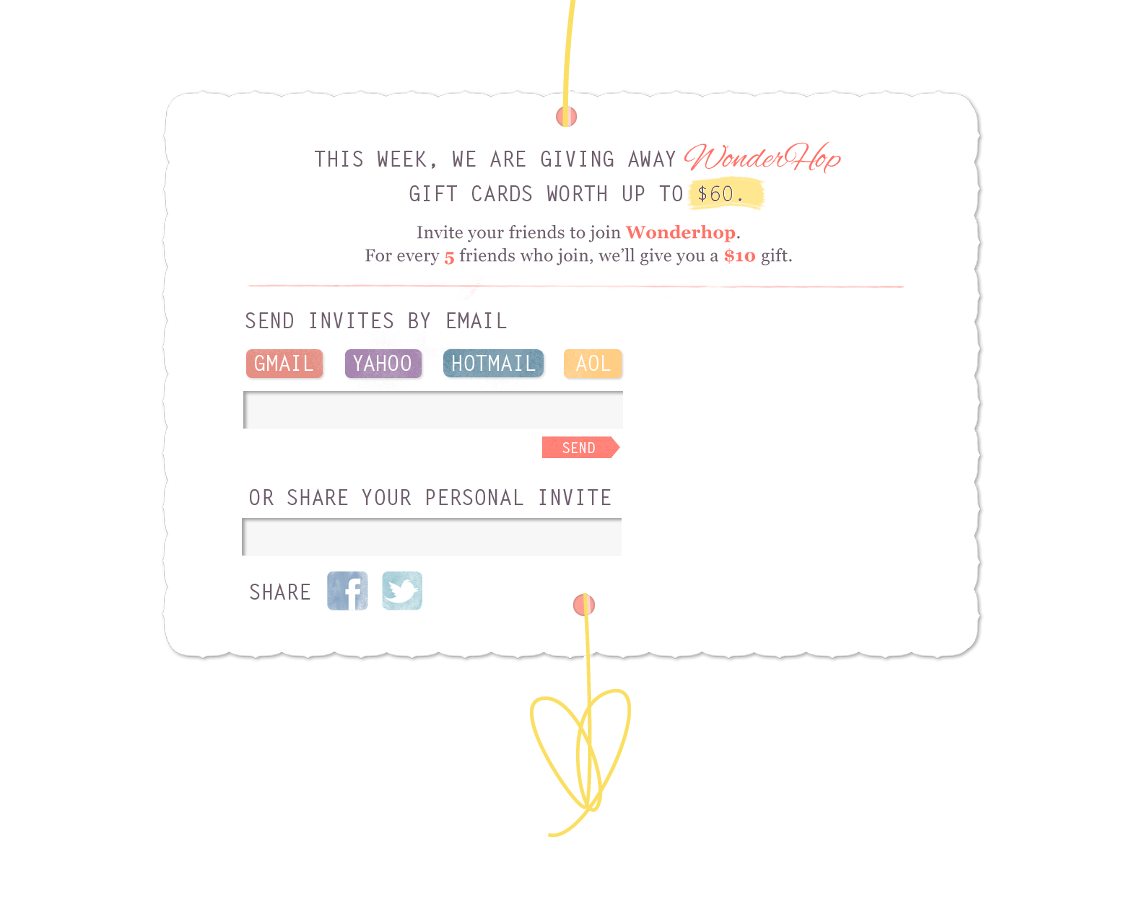
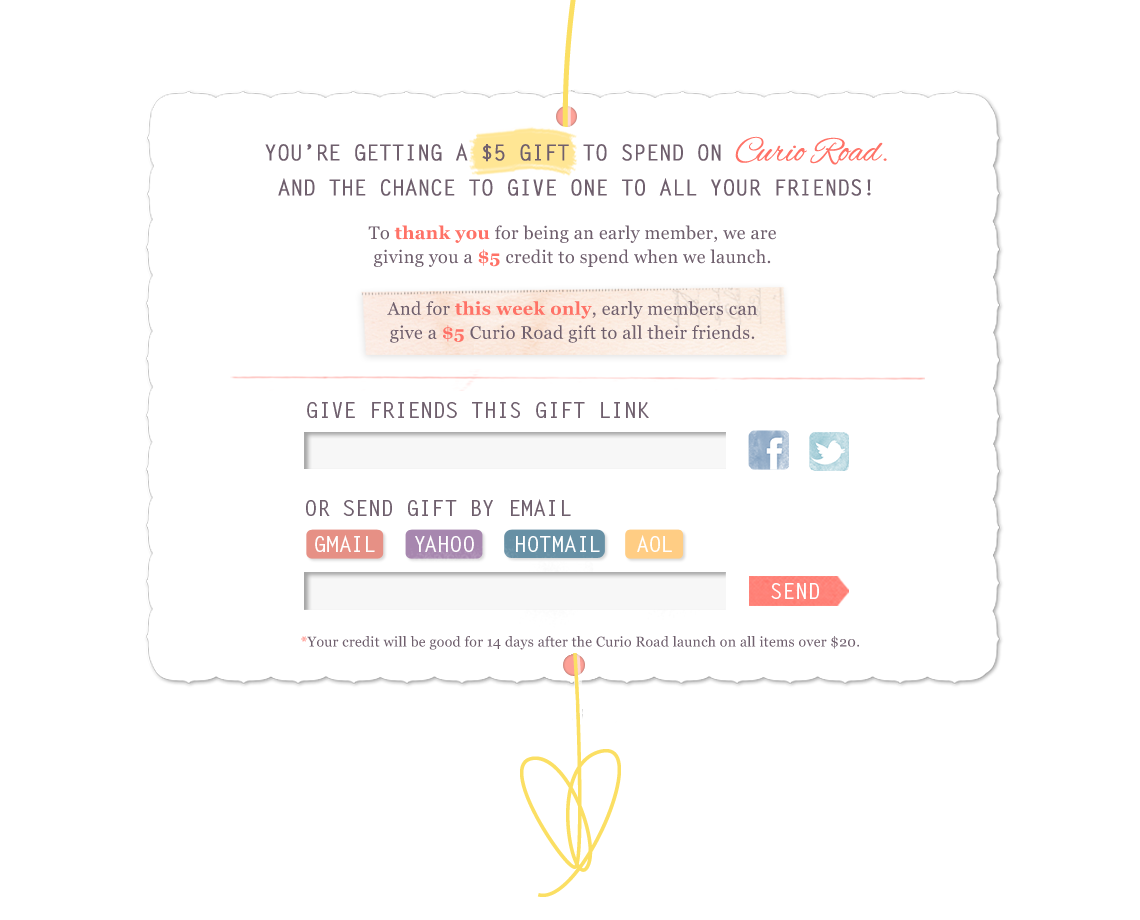
&36521539, #11223 -- new invite page

Changed region(s): [[0.1535, 0.1217, 0.8904, 0.9739]]

diff --git a/public/static/css/style.css b/public/static/css/style.css
@@ -47,11 +47,11 @@ body, html { margin:0; padding:0; background-color:/*#fd8c80*/ white; }
 
 #wrap { width:100%; position: relative; }
 
-#content-box { width: 1140px; height: 10100px; margin:0 auto; position:relative; overflow:hidden; }
+#content-box { width: 1140px; height: 10170px; margin:0 auto; position:relative; overflow:hidden; }
 #content-cards { position:absolute; top:0; left:0; right:0; bottom:0; /*background: url("/static/images/slides_cards-nq8.png") no-repeat scroll left top transparent;*/  }
 #content-text { position:absolute; top:0; left:0; right:0; bottom:0; /*background: url("/static/images/slides_text_wire_corners-nq8.png") no-repeat scroll left top transparent; */ }
 
-#content-back { position:absolute; top:0; left:0; right:0; bottom:0; height: 7210px; /*background: url("/static/images/para_bg.jpg") repeat fixed left top transparent;*/}
+#content-back { position:absolute; top:0; left:0; right:0; bottom:0; height: 10170px; /*background: url("/static/images/para_bg.jpg") repeat fixed left top transparent;*/}
 
 /* 920 / 900 -->  736/716 (0.8) | 598/578 (0.65) */
 /*.backslide { width:100%; height:736px; position:relative; /*display:none;*//* }*/
@@ -133,8 +133,8 @@ body, html { margin:0; padding:0; background-color:/*#fd8c80*/ white; }
 .backslide.backslide-11 .back { height: 920px; }*/
 .backslide.backslide-8 { height:970px; }
 .backslide.backslide-8 .back { height: 950px; }
-.backslide.backslide-11 { height:850px; }
-.backslide.backslide-11 .back { height: 830px; }
+.backslide.backslide-11 { height:920px; }
+.backslide.backslide-11 .back { height: 900px; }
 
 
 .card { width: 1140px; height: 920px; /*border:1px solid red;*/  }
@@ -201,22 +201,22 @@ body, html { margin:0; padding:0; background-color:/*#fd8c80*/ white; }
 .prod-img-9 {  height: 355px; width: 370px; }
 
 
-#invitations-form { height: 160px;left: 240px;position: absolute;top: 300px;width: 385px; }
+#invitations-form { height: 135px;left: 304px;position: absolute;top: 479px;width: 545px; }
 #invite-links-container { margin-top: 49px; }
 .csicon { float:left; clear:none; width:80px; padding: 0 10px; overflow:hidden; text-indent: -9988px; display:block; height:30px;  }
 .csicon:first-child { padding-left:0;  }
 .csicon.cloudsponge_msn { width:100px; }
 .csicon.invite-import-aol { width: 55px; }
-#cloud_invite_input { background: none repeat scroll 0 0 transparent; box-shadow: none; font-size: 17px; height: 26px;
-        left: 3px; outline: medium none; padding: 10px 10px 7px 10px; position: absolute; top: 90px; width: 368px;
+#cloud_invite_input { background: none repeat scroll 0 0 transparent; box-shadow: none; font-size: 17px; height: 24px;
+        left: 3px; outline: medium none; padding: 13px 10px 7px 10px; position: absolute; top: 90px; width: 396px;
         border:none; font-family:"letter-gothic-std",monospace; color: #7F767E;  }
-#cloud_invite_submit {  background: none repeat scroll 0 0 transparent; border: medium none; bottom: 0; box-shadow: none;
-        height: 26px; margin: 0; outline: medium none; overflow: hidden; padding: 0; position: absolute; right: 0;
-        text-indent: -9988px; width: 84px; cursor:pointer; }
+#cloud_invite_submit {  background: none repeat scroll 0 0 transparent; border: medium none; bottom: 9px; box-shadow: none;
+        height: 30px; margin: 0; outline: medium none; overflow: hidden; padding: 0; position: absolute; right: 0;
+        text-indent: -9988px; width: 101px; cursor:pointer; }
 #personal-link { background: none repeat scroll 0 0 transparent; border: none; box-shadow: none; font-size: 17px;
-        height: 26px; left: 243px; outline: medium none; padding: 12px 10px 7px 10px; position: absolute; top: 515px;
-        width: 368px; font-family:"letter-gothic-std",monospace; color: #7F767E; }
-#sharebox { left: 327px; min-width: 42px; min-height: 42px; overflow: hidden; position: absolute; top: 570px; }
+        height: 26px; left: 304px; outline: medium none; padding: 12px 10px 7px 10px; position: absolute; top: 427px;
+        width: 396px; font-family:"letter-gothic-std",monospace; color: #7F767E; }
+#sharebox { left: 748px; min-width: 42px; min-height: 42px; overflow: hidden; position: absolute; top: 428px; }
 .shareitem { width:42px; height:42px; display:block;float:left; margin-right:15px; cursor:pointer; }
 #backstretch { z-index:100 !important; }
 #wrap { display:none; }

diff --git a/public/index.php b/public/index.php
@@ -432,10 +432,10 @@ if (isset($_GET['c']) and preg_match('/^[0-9a-f]+$/i', $_GET['c'])) {
                         <input type="hidden" id="key" value="" />
                         <input id="cloud_invite_input" class="invite-emails input-text required-entry" size="150" rel="1" type="text" name="emails" value="" />
                         <button id="cloud_invite_submit" type="submit" title="Send Invite" class="button"><span><span>Send</span></span></button>
-                        <div id="invitations-sent" style="font-size:14px;color:green;font-style:italic;position:absolute;left:4px;bottom:4px;display:none;">INVITATIONS SENT !</div>
+                        <div id="invitations-sent" style="font-size:14px;color:green;font-style:italic;position:absolute;right:-60px;bottom:55px;display:none;">INVITATIONS SENT !</div>
                     </form>
                     
-                    <div id="gifts" style="">
+                    <div id="gifts" style="display:none;">
                         <div class="money initial">
                             <span>GET STARTED!</span>
                         </div>
@@ -530,7 +530,7 @@ if (isset($_GET['c']) and preg_match('/^[0-9a-f]+$/i', $_GET['c'])) {
                                     left   = (jQuery(window).width()  - width)  / 2,
                                     top    = (jQuery(window).height() - height) / 2,
                                     url    = 'http://twitter.com/share/?url=' + Subscriber.personal_link,
-                                    eurl   = url+'&text=Join the thousands who use Wonderhop to discover uniquely lovely jewelry, home décor and gifts, all at great prices.',
+                                    eurl   = url+'&text=Join the thousands who use Curio Road to discover uniquely lovely jewelry, home décor and gifts, all at great prices.',
                                     opts   = 'status=1' +
                                             ',width='  + width  +
                                             ',height=' + height +

diff --git a/main.php b/main.php
@@ -81,7 +81,7 @@ function newemail_save($email, $invited_by = NULL, $no_confirm = false)
         $fields .= ',invited_by';
         $vph .= ',?';
         $values[] = $inviter['id'];
-        if( ! $no_confirm) send_confirm_email($email, $values[2], $inviter['email'], $inviter['personal_token']); 
+        //if( ! $no_confirm) send_confirm_email($email, $values[2], $inviter['email'], $inviter['personal_token']); 
     }
     $fields .=  ')';
     $vph .=  ')';
